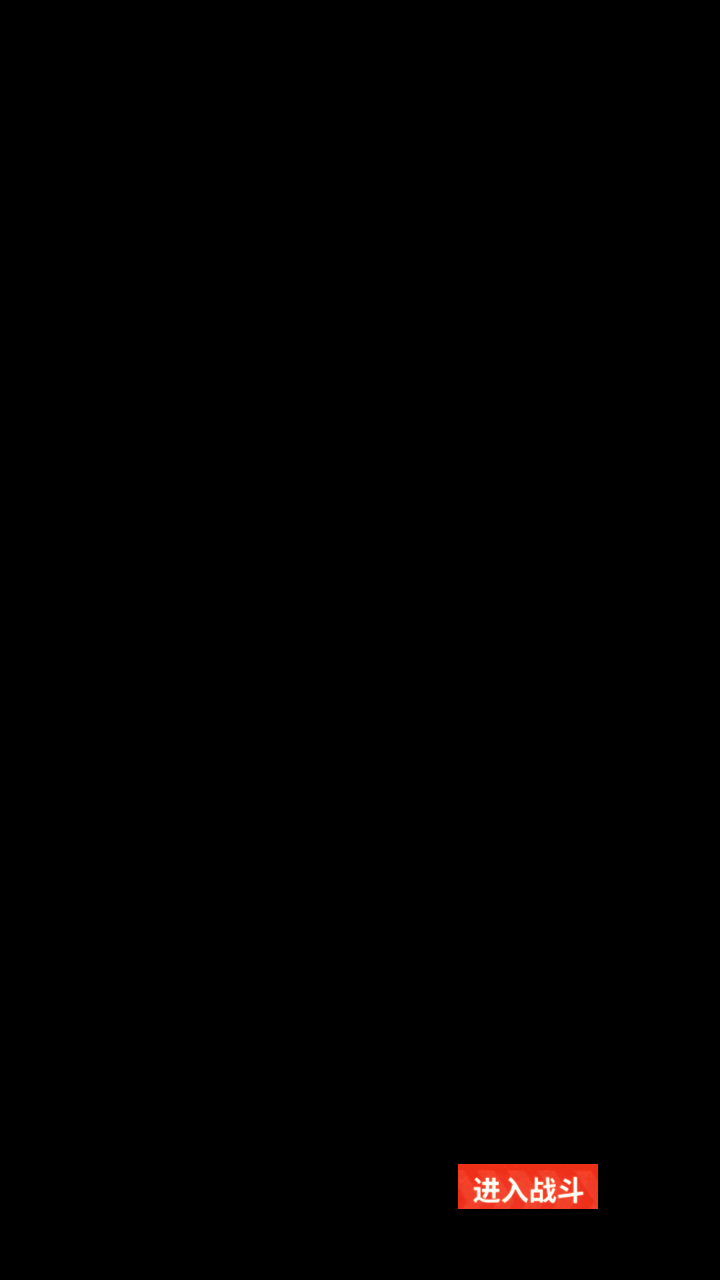
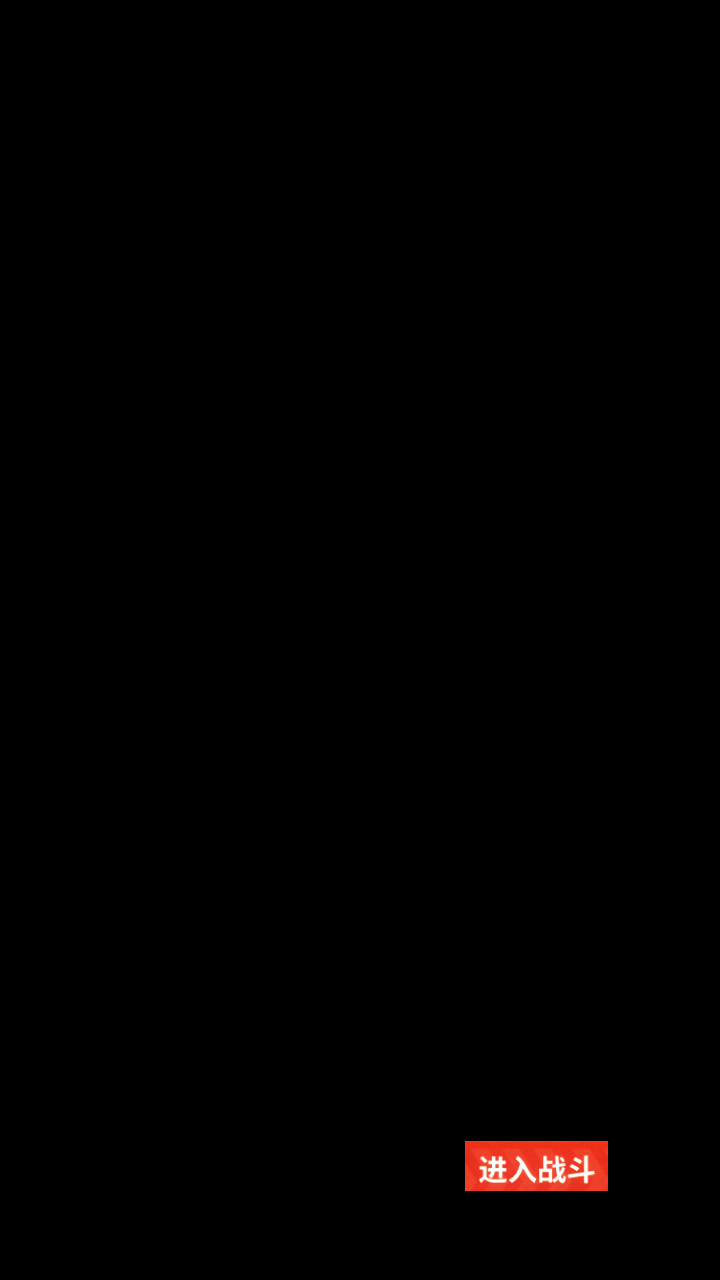
🐛 修复了拦截和咨询

Changed region(s): [[0.6111, 0.875, 0.8556, 0.9688]]

diff --git a/module/ui/assets.py b/module/ui/assets.py
@@ -23,7 +23,7 @@ FRIEND_CHECK = Button(area={'cn': (311, 147, 414, 175)}, color={'cn': (125, 174,
 FRIEND_GOTO_MAIN = Button(area={'cn': (621, 139, 661, 178)}, color={'cn': (56, 145, 223)}, button={'cn': (621, 139, 661, 178)}, file={'cn': './assets/cn/ui/FRIEND_GOTO_MAIN.png'})
 GOTO_BACK = Button(area={'cn': (29, 1193, 53, 1222)}, color={'cn': (120, 197, 235)}, button={'cn': (29, 1193, 53, 1222)}, file={'cn': './assets/cn/ui/GOTO_BACK.png'})
 GOTO_MAIN = Button(area={'cn': (181, 1194, 212, 1223)}, color={'cn': (117, 199, 239)}, button={'cn': (181, 1194, 212, 1223)}, file={'cn': './assets/cn/ui/GOTO_MAIN.png'})
-INTERCEPTION_CHECK = Button(area={'cn': (409, 662, 505, 770)}, color={'cn': (102, 72, 68)}, button={'cn': (409, 662, 505, 770)}, file={'cn': './assets/cn/ui/INTERCEPTION_CHECK.png'})
+INTERCEPTION_CHECK = Button(area={'cn': (593, 1130, 647, 1198)}, color={'cn': (113, 24, 0)}, button={'cn': (593, 1130, 647, 1198)}, file={'cn': './assets/cn/ui/ABNORMAL_INTERCEPTION_CHECK.png'})
 INVENTORY_CHECK = Button(area={'cn': (47, 114, 248, 141)}, color={'cn': (129, 130, 130)}, button={'cn': (47, 114, 248, 141)}, file={'cn': './assets/cn/ui/INVENTORY_CHECK.png'})
 MAILBOX_CHECK = Button(area={'cn': (308, 159, 411, 192)}, color={'cn': (159, 197, 240)}, button={'cn': (308, 159, 411, 192)}, file={'cn': './assets/cn/ui/MAILBOX_CHECK.png'})
 MAILBOX_GOTO_MAIN = Button(area={'cn': (625, 158, 654, 188)}, color={'cn': (77, 156, 224)}, button={'cn': (625, 158, 654, 188)}, file={'cn': './assets/cn/ui/MAILBOX_GOTO_MAIN.png'})
@@ -50,7 +50,7 @@ ROOKIE_ARENA_CHECK = Button(area={'cn': (199, 141, 518, 238)}, color={'cn': (90,
 SHOP_CHECK = Button(area={'cn': (18, 37, 56, 57)}, color={'cn': (121, 118, 115)}, button={'cn': (18, 37, 56, 57)}, file={'cn': './assets/cn/ui/SHOP_CHECK.png'})
 SIMULATION_ROOM_CHECK = Button(area={'cn': (263, 602, 464, 686)}, color={'cn': (132, 136, 137)}, button={'cn': (263, 602, 464, 686)}, file={'cn': './assets/cn/ui/SIMULATION_ROOM_CHECK.png'})
 SPECIAL_ARENA_CHECK = Button(area={'cn': (204, 138, 524, 229)}, color={'cn': (87, 90, 97)}, button={'cn': (204, 138, 524, 229)}, file={'cn': './assets/cn/ui/SPECIAL_ARENA_CHECK.png'})
-SPECIAL_INTERCEPTION_CHECK = Button(area={'cn': (73, 831, 260, 862)}, color={'cn': (200, 199, 200)}, button={'cn': (73, 831, 260, 862)}, file={'cn': './assets/cn/ui/SPECIAL_INTERCEPTION_CHECK.png'})
+SPECIAL_INTERCEPTION_CHECK = Button(area={'cn': (36, 839, 277, 893)}, color={'cn': (56, 55, 49)}, button={'cn': (36, 839, 277, 893)}, file={'cn': './assets/cn/ui/ABNORMAL_INTERCEPTION_BATTLE_CHECK.png'})
 TEAM_CHECK = Button(area={'cn': (35, 305, 152, 320)}, color={'cn': (200, 198, 199)}, button={'cn': (35, 305, 152, 320)}, file={'cn': './assets/cn/ui/TEAM_CHECK.png'})
 TEAM_GOTO_CONVERSATION = Button(area={'cn': (393, 136, 456, 174)}, color={'cn': (72, 71, 69)}, button={'cn': (393, 136, 456, 174)}, file={'cn': './assets/cn/ui/TEAM_GOTO_CONVERSATION.png'})
 TEAM_GOTO_LIBERATION = Button(area={'cn': (114, 142, 159, 163)}, color={'cn': (129, 127, 127)}, button={'cn': (114, 142, 159, 163)}, file={'cn': './assets/cn/ui/TEAM_GOTO_LIBERATION.png'})

diff --git a/module/interception/interception.py b/module/interception/interception.py
@@ -1,5 +1,5 @@
 from module.base.timer import Timer
-from module.interception.assets import *
+from module.interception.assets import BATTLE, BATTLE_QUICKLY
 from module.simulation_room.assets import END_FIGHTING, AUTO_SHOOT, AUTO_BURST
 from module.ui.assets import INTERCEPTION_CHECK, SPECIAL_INTERCEPTION_CHECK
 from module.ui.page import page_interception
@@ -21,7 +21,7 @@ class Interception(UI):
                 self.device.screenshot()
 
             if click_timer.reached() and INTERCEPTION_CHECK.match(self.device.image):
-                self.device.click_minitouch(460, 990)
+                self.device.click_minitouch(372, 1043)
                 click_timer.reset()
 
             if SPECIAL_INTERCEPTION_CHECK.match(self.device.image) and confirm_timer.reached():
@@ -35,14 +35,9 @@ class Interception(UI):
         self.device.click_record_clear()
         self.device.stuck_record_clear()
 
-        if self.appear(TRAIN, offset=(5, 5)):
-            for i in range(3):
-                self.device.click_minitouch(340, 850)
-                self.device.sleep(0.3)
-        else:
-            for i in range(3):
-                self.device.click_minitouch(420, 850)
-                self.device.sleep(0.3)
+        for i in range(3):
+            self.device.click_minitouch(340, 850)
+            self.device.sleep(0.3)
 
         while 1:
             if skip_first_screenshot:

diff --git a/module/ui/page.py b/module/ui/page.py
@@ -1,6 +1,20 @@
 import traceback
 
-from module.ui.assets import *
+from module.ui.assets import (
+    MAIN_CHECK, GOTO_MAIN, REWARD_CHECK, REWARD_GOTO_MAIN, MAIN_GOTO_REWARD,
+    DESTROY_CHECK, DESTROY_GOTO_REWARD, REWARD_GOTO_DESTROY, FRIEND_CHECK,
+    FRIEND_GOTO_MAIN, MAIN_GOTO_FRIEND, DAILY_CHECK, DAILY_GOTO_MAIN,
+    MAIN_GOTO_DAILY, SHOP_CHECK, GOTO_BACK, MAIN_GOTO_SHOP, CASH_SHOP_CHECK,
+    MAIN_GOTO_CASH_SHOP, TEAM_CHECK, TEAM_GOTO_MAIN, MAIN_GOTO_TEAM,
+    INVENTORY_CHECK, MAIN_GOTO_INVENTORY, PASS_CHECK, PASS_GOTO_MAIN,
+    MAIN_GOTO_PASS, CONVERSATION_CHECK, TEAM_GOTO_CONVERSATION, ARK_CHECK,
+    MAIN_GOTO_ARK, TRIBE_TOWER_CHECK, ARK_GOTO_TRIBE_TOWER, INTERCEPTION_CHECK,
+    ARK_GOTO_INTERCEPTION, SPECIAL_INTERCEPTION_CHECK, SIMULATION_ROOM_CHECK,
+    ARK_GOTO_SIMULATION_ROOM, ARENA_CHECK, ARK_GOTO_ARENA, ROOKIE_ARENA_CHECK,
+    ARENA_GOTO_ROOKIE_ARENA, SPECIAL_ARENA_CHECK, ARENA_GOTO_SPECIAL_ARENA,
+    OUTPOST_CHECK, MAIN_GOTO_OUTPOST, COMMISSION_CHECK, COMMISSION_GOTO_OUTPOST,
+    OUTPOST_GOTO_COMMISSION, MAILBOX_CHECK, MAILBOX_GOTO_MAIN, MAIN_GOTO_MAILBOX
+)
 
 
 class Page:

diff --git a/module/interception/assets.py b/module/interception/assets.py
@@ -3,6 +3,15 @@ from module.base.button import Button
 # This file was automatically generated by dev_tools/button_extract.py.
 # Don't modify it manually.
 
-BATTLE = Button(area={'cn': (458, 1164, 598, 1209)}, color={'cn': (244, 93, 72)}, button={'cn': (458, 1164, 598, 1209)}, file={'cn': './assets/cn/interception/BATTLE.png'})
-BATTLE_QUICKLY = Button(area={'cn': (496, 1093, 591, 1125)}, color={'cn': (254, 147, 104)}, button={'cn': (496, 1093, 591, 1125)}, file={'cn': './assets/cn/interception/BATTLE_QUICKLY.png'})
-TRAIN = Button(area={'cn': (226, 666, 339, 698)}, color={'cn': (162, 162, 161)}, button={'cn': (226, 666, 339, 698)}, file={'cn': './assets/cn/interception/TRAIN.png'})
+BATTLE = Button(
+    area={"cn": (465, 1141, 608, 1191)},
+    color={"cn": (240, 92, 72)},
+    button={"cn": (465, 1141, 608, 1191)},
+    file={"cn": "./assets/cn/interception/BATTLE.png"},
+)
+BATTLE_QUICKLY = Button(
+    area={"cn": (504, 1074, 602, 1106)},
+    color={"cn": (254, 147, 104)},
+    button={"cn": (504, 1074, 602, 1106)},
+    file={"cn": "./assets/cn/interception/BATTLE_QUICKLY.png"},
+)

diff --git a/module/conversation/conversation.py b/module/conversation/conversation.py
@@ -3,7 +3,17 @@ from module.base.utils import (
     point2str,
     find_center,
 )
-from module.conversation.assets import *
+from module.conversation.assets import (
+    DETAIL_CHECK,
+    GIFT,
+    OPPORTUNITY,
+    OPPORTUNITY_B,
+    COMMUNICATE,
+    FAVOURITE_CHECK,
+    ANSWER_CHECK,
+    RANK_INCREASE_COMFIRM,
+    COMMUNICATE_QUICKLY,
+)
 from module.handler.assets import CONFIRM_B, AUTO_CLICK_CHECK
 from module.logger import logger
 from module.ui.assets import CONVERSATION_CHECK, GOTO_BACK
@@ -189,6 +199,9 @@ class Conversation(UI):
 
     def run(self):
         self.ui_ensure(page_conversation, confirm_wait=1)
+        for i in range(3):
+            self.device.click_minitouch(412, 445)
+            self.device.sleep(0.3)
         if self.ensure_opportunity_remain():
             self._confirm_timer.reset().start()
             try:

diff --git a/module/device/method/uiautomator_2.py b/module/device/method/uiautomator_2.py
@@ -193,7 +193,7 @@ class Uiautomator2(Connection):
         if not package_name:
             package_name = self.package
         try:
-            self.u2.app_start(package_name, use_monkey=True)
+            self.adb_shell(['am', 'start', '-n', f'{package_name}/com.shiftup.nk.MainActivity'])
         except u2.exceptions.BaseError as e:
             # BaseError: package "com.proximabeta.nikke" not found
             logger.error(e)

diff --git a/module/device/method/droidcast.py b/module/device/method/droidcast.py
@@ -219,6 +219,11 @@ class DroidCast(Uiautomator2):
         cv2.add(b, m, dst=b)
 
         image = cv2.merge([r, g, b])
+        
+        # import time
+        # # Save raw image locally with timestamp
+        # timestamp = int(time.time())
+        # cv2.imwrite(f'./screenshots/{timestamp}.png', cv2.cvtColor(image, cv2.COLOR_RGB2BGR))
 
         return image
 
